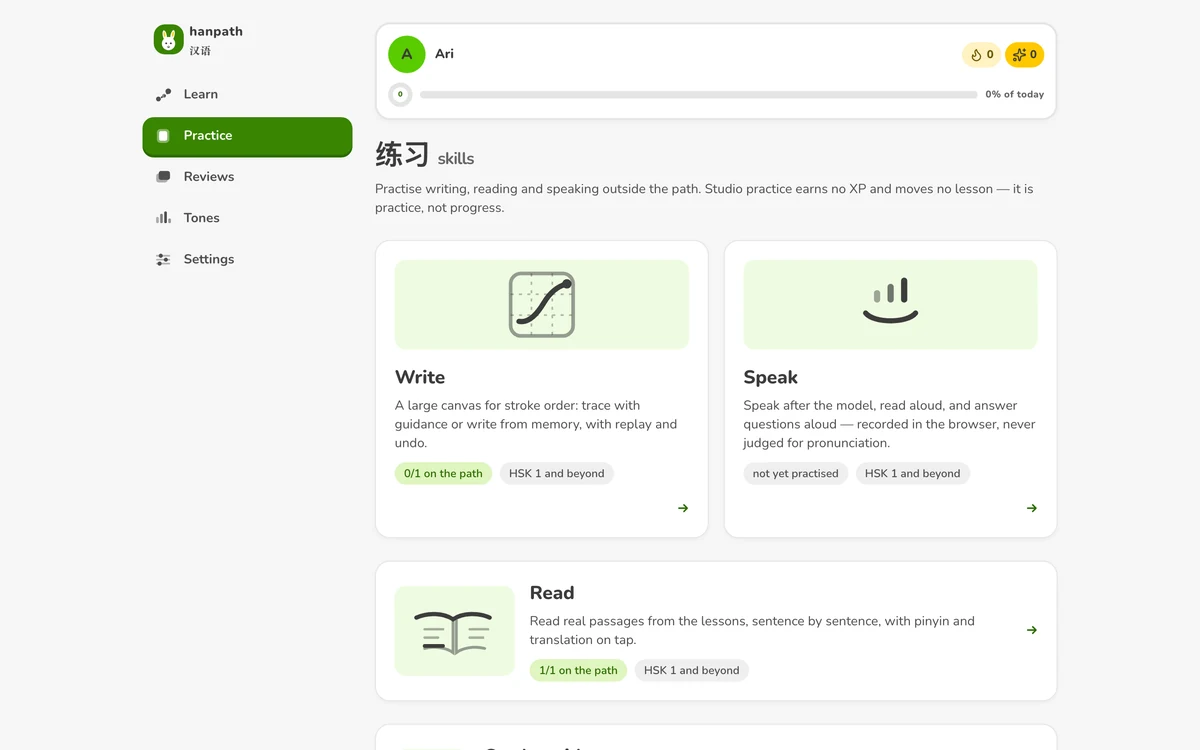
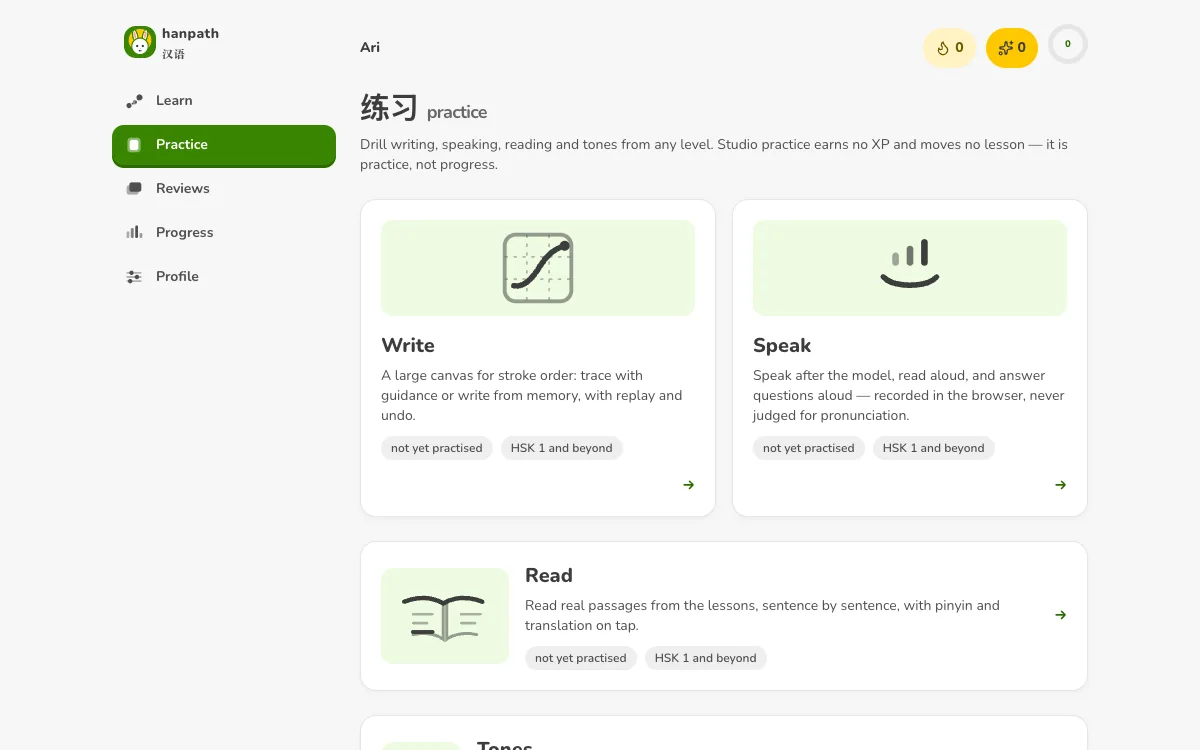
feat: reviews forecast, StrictMode-safe settings auto-save, refreshed README screenshots
- /reviews/queue returns a forecast (now, 24h, 2-3 days, week, later); the review page
  shows it as "Coming up".
- Settings auto-save compares against stored values, so an untouched form never saves.
- scripts/readme-shots.mjs regenerates docs/screenshots from the running app; all 14
  screenshots and the logo reflect the redesign. README wording follows.

diff --git a/web/src/features/review/ReviewPage.tsx b/web/src/features/review/ReviewPage.tsx
@@ -4,6 +4,7 @@ import { useAnswerReview, useOverview, useReviewQueue } from '../../api/hooks'
 import { relativeDue } from '../../lib/labels'
 import { Button, Card, Chip, EmptyState, ErrorNote, ProgressBar, Spinner } from '../../components/ui'
 import { usePrefs } from '../../stores/prefs'
+import type { ReviewForecast } from '../../api/types'
 
 export function ReviewPage() {
   const prefs = usePrefs()
@@ -23,6 +24,7 @@ export function ReviewPage() {
   // The deck is dealt as a batch of at most `limit` cards; the session bar tracks
   // this sitting, not the lifetime queue, so it can actually reach 100%.
   const presented = items.length
+  const forecast = queue.data?.forecast
 
   const record = (itemId: string, lexemeId: string, correct: boolean) =>
     answer.mutate(
@@ -56,6 +58,8 @@ export function ReviewPage() {
           Pinyin {prefs.pinyinVisible ? 'on' : 'off'}
         </button>
       </header>
+
+      {forecast && Object.values(forecast).some((n) => n > 0) ? <ForecastCard forecast={forecast} /> : null}
 
       {presented > 0 ? (
         <div className="flex flex-col gap-1.5">
@@ -137,5 +141,41 @@ export function ReviewPage() {
         </p>
       ) : null}
     </div>
+  )
+}
+
+const FORECAST_WINDOWS: { key: keyof ReviewForecast; label: string }[] = [
+  { key: 'now', label: 'now' },
+  { key: 'day', label: 'next 24 h' },
+  { key: 'days3', label: '2–3 days' },
+  { key: 'week', label: 'this week' },
+  { key: 'later', label: 'later' },
+]
+
+/** When the deck comes due. Bars are scaled to the busiest window, and every window prints
+ *  its number, so the chart is never the only carrier of a count. */
+function ForecastCard({ forecast }: { forecast: ReviewForecast }) {
+  const busiest = Math.max(...FORECAST_WINDOWS.map((w) => forecast[w.key]), 1)
+  return (
+    <Card className="flex flex-col gap-3" aria-labelledby="forecast-h">
+      <h2 id="forecast-h" className="font-extrabold text-ink">
+        Coming up
+      </h2>
+      <ul className="grid grid-cols-5 gap-2 text-center">
+        {FORECAST_WINDOWS.map(({ key, label }) => (
+          <li key={key} className="flex flex-col items-center gap-1">
+            <span className="flex h-16 w-full items-end">
+              <span
+                aria-hidden
+                className={`w-full rounded-t-tile ${key === 'now' ? 'bg-danger-600' : 'bg-brand-500'}`}
+                style={{ height: `${Math.max(forecast[key] > 0 ? 8 : 0, (forecast[key] / busiest) * 100)}%` }}
+              />
+            </span>
+            <span className="text-sm font-extrabold tabular-nums text-ink">{forecast[key]}</span>
+            <span className="text-[0.7rem] font-bold text-ink-3">{label}</span>
+          </li>
+        ))}
+      </ul>
+    </Card>
   )
 }

diff --git a/web/src/features/review/ReviewPage.test.tsx b/web/src/features/review/ReviewPage.test.tsx
@@ -1,0 +1,51 @@
+import { describe, expect, it, vi } from 'vitest'
+import { render, screen, within } from '@testing-library/react'
+import userEvent from '@testing-library/user-event'
+import type { ReviewItem } from '../../api/types'
+import { ReviewPage } from './ReviewPage'
+
+// One card at a time, and a forecast whose numbers add up to the deck.
+
+const { answerMutate } = vi.hoisted(() => ({ answerMutate: vi.fn() }))
+
+const card = (id: string, zh: string): ReviewItem =>
+  ({ id, lexeme_id: `lx-${id}`, simplified: zh, traditional: zh, pinyin: 'p', senses: [{ en: 'meaning' }], due_at: '2026-01-01T00:00:00Z', interval_index: 0, reps: 0, lapses: 0 }) as unknown as ReviewItem
+
+vi.mock('../../api/hooks', () => ({
+  useReviewQueue: () => ({
+    isLoading: false,
+    error: null,
+    data: {
+      items: [card('1', '你'), card('2', '我')],
+      due_total: 2,
+      forecast: { now: 2, day: 5, days3: 0, week: 3, later: 1 },
+    },
+  }),
+  useOverview: () => ({ data: { due_reviews: 2 } }),
+  useAnswerReview: () => ({ mutate: answerMutate, isPending: false, error: null }),
+}))
+
+describe('ReviewPage', () => {
+  it('prints every forecast window, even an empty one', () => {
+    render(<ReviewPage />)
+    const forecast = screen.getByRole('heading', { name: 'Coming up' }).closest('div')!
+    for (const label of ['now', 'next 24 h', '2–3 days', 'this week', 'later']) {
+      expect(within(forecast).getByText(label)).toBeInTheDocument()
+    }
+    expect(within(forecast).getByText('5')).toBeInTheDocument()
+  })
+
+  it('deals one card at a time and moves on after an answer', async () => {
+    answerMutate.mockImplementation((_vars: unknown, opts?: { onSuccess?: (r: { interval_index: number }) => void }) =>
+      opts?.onSuccess?.({ interval_index: 1 }),
+    )
+    render(<ReviewPage />)
+    expect(screen.getByText('你')).toBeInTheDocument()
+    expect(screen.queryByText('我')).not.toBeInTheDocument()
+
+    await userEvent.click(screen.getByRole('button', { name: /I knew it/ }))
+
+    expect(screen.getByText('我')).toBeInTheDocument()
+    expect(screen.queryByText('你')).not.toBeInTheDocument()
+  })
+})

diff --git a/web/src/features/profile/ProfilePage.tsx b/web/src/features/profile/ProfilePage.tsx
@@ -1,4 +1,4 @@
-import { useEffect, useRef, useState } from 'react'
+import { useEffect, useState } from 'react'
 import { Link } from 'react-router-dom'
 import { useLogout, useOverview, useSession, useUpdateMe } from '../../api/hooks'
 import { describeGoal } from '../../lib/labels'
@@ -36,13 +36,17 @@ export function ProfilePage() {
 
   // Each change saves itself (after a short pause, so typing is one save, and only while the
   // form is valid) — a Save button is a step a learner forgets.
-  const firstRender = useRef(true)
+  // "Changed" is measured against what is stored, not against the first render: React runs
+  // effects twice in development, and a first-render flag would save an untouched form.
   useEffect(() => {
-    if (firstRender.current) {
-      firstRender.current = false
-      return
-    }
-    if (displayName.trim() === '' || !(goalValue >= 1 && goalValue <= 600)) return
+    const changed =
+      displayName !== user.display_name ||
+      timezone !== user.timezone ||
+      goalKind !== user.daily_goal_kind ||
+      goalValue !== user.daily_goal_value ||
+      pinyinDefault !== user.pinyin_default ||
+      targetLevel !== (user.target_level ?? 1)
+    if (!changed || displayName.trim() === '' || !(goalValue >= 1 && goalValue <= 600)) return
     setSaved(false)
     const timer = window.setTimeout(() => {
       update

diff --git a/web/src/features/profile/ProfilePage.test.tsx b/web/src/features/profile/ProfilePage.test.tsx
@@ -1,3 +1,4 @@
+import { StrictMode } from 'react'
 import { afterEach, beforeEach, describe, expect, it, vi } from 'vitest'
 import { fireEvent, render, screen } from '@testing-library/react'
 import { MemoryRouter } from 'react-router-dom'
@@ -58,6 +59,18 @@ describe('ProfilePage auto-save', () => {
 
     expect(mutateAsync).toHaveBeenCalledTimes(1)
     expect(mutateAsync).toHaveBeenCalledWith(expect.objectContaining({ daily_goal_value: 30 }))
+  })
+
+  it('does not save an untouched form, even when effects run twice', async () => {
+    render(
+      <StrictMode>
+        <MemoryRouter>
+          <ProfilePage />
+        </MemoryRouter>
+      </StrictMode>,
+    )
+    await vi.advanceTimersByTimeAsync(2000)
+    expect(mutateAsync).not.toHaveBeenCalled()
   })
 
   it('never sends an invalid form', async () => {

diff --git a/web/src/api/types.ts b/web/src/api/types.ts
@@ -391,7 +391,9 @@ export type ReviewItem = {
   due_at: string
 }
 
-export type ReviewQueue = { items: ReviewItem[]; due_total: number }
+export type ReviewForecast = { now: number; day: number; days3: number; week: number; later: number }
+
+export type ReviewQueue = { items: ReviewItem[]; due_total: number; forecast?: ReviewForecast }
 
 export type ReviewAnswerResponse = {
   lexeme_id: string

diff --git a/internal/store/learning_queries.go b/internal/store/learning_queries.go
@@ -428,6 +428,29 @@ func (s *Store) CountDue(ctx context.Context, userID uuid.UUID) (int, error) {
 	return n, mapErr(err)
 }
 
+// ReviewForecast says how many cards fall due in each window from now. The windows are
+// relative to now, not to a calendar day, so the forecast needs no time zone and cannot
+// disagree with the "due now" count: every card is in exactly one bucket.
+type ReviewForecast struct {
+	Now   int `json:"now"`   // due already
+	Day   int `json:"day"`   // within the next 24 hours
+	Days3 int `json:"days3"` // 1 to 3 days from now
+	Week  int `json:"week"`  // 3 to 7 days from now
+	Later int `json:"later"` // beyond a week
+}
+
+func (s *Store) ReviewForecast(ctx context.Context, userID uuid.UUID) (ReviewForecast, error) {
+	var f ReviewForecast
+	err := s.Pool.QueryRow(ctx, `
+		SELECT count(*) FILTER (WHERE due_at <= now())::int,
+		       count(*) FILTER (WHERE due_at > now() AND due_at <= now() + interval '1 day')::int,
+		       count(*) FILTER (WHERE due_at > now() + interval '1 day' AND due_at <= now() + interval '3 days')::int,
+		       count(*) FILTER (WHERE due_at > now() + interval '3 days' AND due_at <= now() + interval '7 days')::int,
+		       count(*) FILTER (WHERE due_at > now() + interval '7 days')::int
+		FROM review_items WHERE user_id = $1::uuid`, userID).Scan(&f.Now, &f.Day, &f.Days3, &f.Week, &f.Later)
+	return f, mapErr(err)
+}
+
 // ApplyReviewResult advances one card. The scheduler maths lives in
 // internal/progress so the interval ladder is unit-tested, not embedded in SQL.
 func (s *Store) ApplyReviewResult(ctx context.Context, userID, lexemeID uuid.UUID, correct bool, intervalIndex int, ease float64, dueAt time.Time) error {

diff --git a/internal/httpapi/handlers_learn.go b/internal/httpapi/handlers_learn.go
@@ -420,7 +420,12 @@ func (s *Server) handleReviewQueue(w http.ResponseWriter, r *http.Request) {
 		s.respondStoreError(w, r, err)
 		return
 	}
-	writeJSON(w, http.StatusOK, map[string]any{"items": items, "due_total": due})
+	forecast, err := s.store.ReviewForecast(r.Context(), user.ID)
+	if err != nil {
+		s.respondStoreError(w, r, err)
+		return
+	}
+	writeJSON(w, http.StatusOK, map[string]any{"items": items, "due_total": due, "forecast": forecast})
 }
 
 type reviewAnswerRequest struct {

diff --git a/README.md b/README.md
@@ -60,7 +60,7 @@ awaiting review. No audio files ship; it is a few lines of Web Audio, and it has
 
 ### Practice studios — outside the path, on purpose
 
-The practice hub leads to four studios. They serve drills from **any** level and state up
+The practice hub leads to four studios (writing, speaking, reading, tones) and the study guide. They serve drills from **any** level and state up
 front that nothing there moves the path — a learner who wants to drill 写 before their
 lessons reach it can, without the app pretending they learned it.
 
@@ -120,7 +120,7 @@ tied to the unit that teaches them, and bookmarks for the words you keep forgett
 ### The interface is a system, not a stylesheet
 
 The visual language follows the OpenDesign `duolingo` design-system package — chunky fills,
-a solid "clay" lip under every primary control, a two-row learner card in the header — with
+a solid "clay" lip under every primary control, a compact stats bar (streak, XP, today's goal) above every page — with
 one deliberate departure: **the package's own colour pairings fail WCAG, so they were
 corrected rather than copied.** White on Owl Green `#58cc02` measures **2.09:1**; on
 Cardinal `#ff4b4b`, **3.30:1**. Signature hues therefore carry large shapes and dark labels
@@ -140,7 +140,7 @@ self-hosted; nothing is fetched from a third-party CDN at runtime.
 The mascot is a **moon rabbit (玉兔)** — Chang'e's companion, drawn in flat vector from
 circles and capsules so it holds 32px in the header and 64px on the sign-in card. It has a
 `cheer` face for welcomes, and it drops its finer features below 40px where they would only
-alias.
+alias. In the logo (tile, favicon) it sits in front of its full moon.
 
 ---
 
